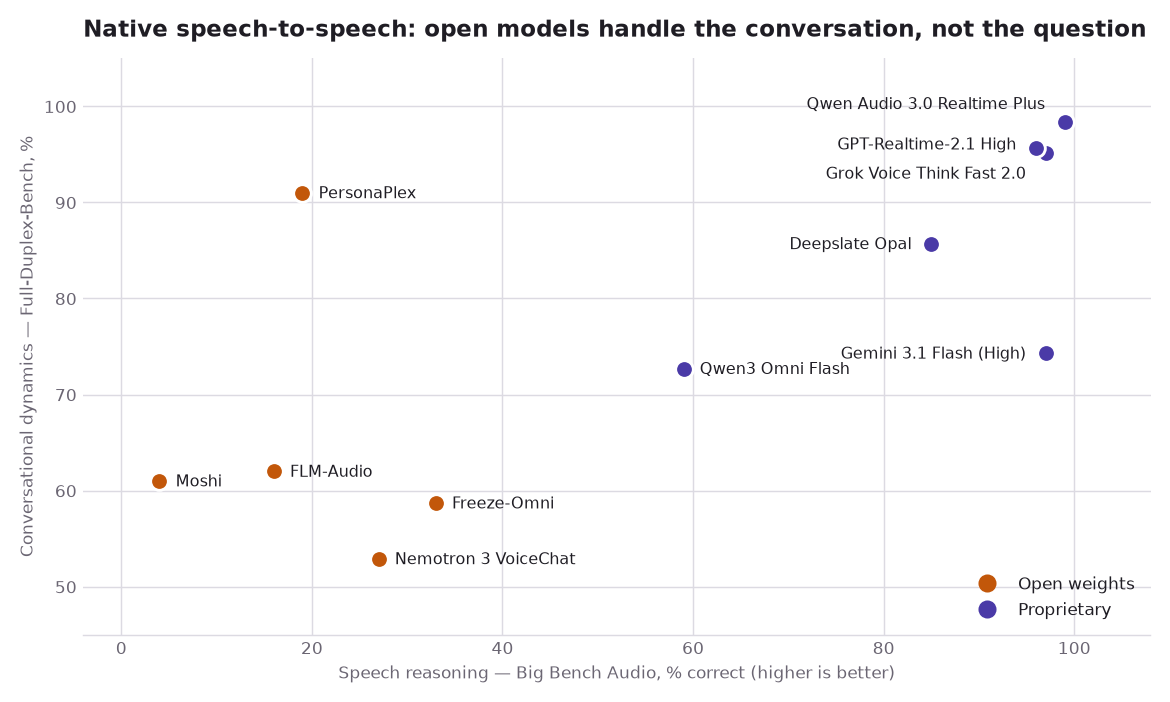
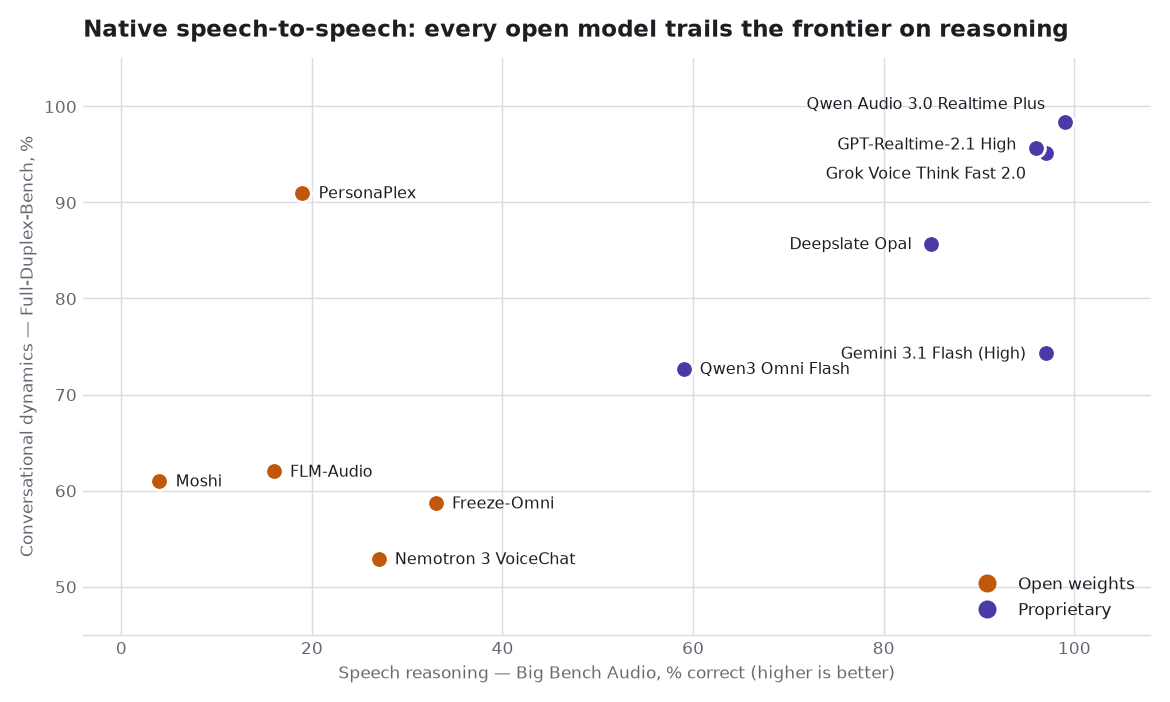
fix(posts): close the second review's data-vs-prose gaps
Second pass caught the recommendations claiming GPT-Realtime "leads on
task completion" when the table's task-completion column is latency and
it places fourth -- the intended claim was Pass@1 success, and the
benchmark's own footnote points at gpt-realtime-1.5, so it was not
evidence about the 2.1 generation at all.

Also: qualify the 2.4x latency win, which averages Gemini Live 3.1 over
only the 78% of runs where it spoke against a cascade that answered
everything; state that Freeze-Omni out-reasons Nemotron rather than
implying otherwise; rewrite the TTS price note, which described four of
the five rows it covered incorrectly; hedge an Elo rank whose confidence
intervals overlap; source the lone RTFx figure; reconcile Cartesia's two
pricing descriptions; and rename a heading its own section refuted.

Verified against the leaderboard that the average WER really is over
seven test sets, not eight -- reproduced the published average from the
per-dataset columns for three models, so TEDLIUM is not in this column.

Figures: retitle the scatter, which generalised PersonaPlex's timing to
all five open models, and use the previously dead is_cascade field to
emphasise the baseline the chart exists to contrast.

Changed region(s): [[0.3692, 0.0299, 0.9846, 0.0598]]

diff --git a/docs/posts/voice-ai-architectures-2026/index.html b/docs/posts/voice-ai-architectures-2026/index.html
@@ -176,7 +176,7 @@ ul.task-list li input[type="checkbox"] {
   </ul></li>
   <li><a href="#the-cascade-really-is-slower-by-seconds-not-milliseconds" id="toc-the-cascade-really-is-slower-by-seconds-not-milliseconds" class="nav-link" data-scroll-target="#the-cascade-really-is-slower-by-seconds-not-milliseconds">The cascade really is slower — by seconds, not milliseconds</a></li>
   <li><a href="#caveat-almost-none-of-these-numbers-measure-the-same-thing" id="toc-caveat-almost-none-of-these-numbers-measure-the-same-thing" class="nav-link" data-scroll-target="#caveat-almost-none-of-these-numbers-measure-the-same-thing">Caveat: almost none of these numbers measure the same thing</a></li>
-  <li><a href="#recognition-on-hard-audio-is-where-the-cascade-earns-its-keep" id="toc-recognition-on-hard-audio-is-where-the-cascade-earns-its-keep" class="nav-link" data-scroll-target="#recognition-on-hard-audio-is-where-the-cascade-earns-its-keep">Recognition on hard audio is where the cascade earns its keep</a></li>
+  <li><a href="#transcription-has-become-excellent-and-largely-free" id="toc-transcription-has-become-excellent-and-largely-free" class="nav-link" data-scroll-target="#transcription-has-become-excellent-and-largely-free">Transcription has become excellent, and largely free</a></li>
   <li><a href="#synthesis-quality-has-commoditised-and-the-price-spread-proves-it" id="toc-synthesis-quality-has-commoditised-and-the-price-spread-proves-it" class="nav-link" data-scroll-target="#synthesis-quality-has-commoditised-and-the-price-spread-proves-it">Synthesis quality has commoditised, and the price spread proves it</a></li>
   <li><a href="#the-reasoning-gap-is-the-real-dividing-line-and-it-is-enormous" id="toc-the-reasoning-gap-is-the-real-dividing-line-and-it-is-enormous" class="nav-link" data-scroll-target="#the-reasoning-gap-is-the-real-dividing-line-and-it-is-enormous">The reasoning gap is the real dividing line, and it is enormous</a>
   <ul class="collapse">
@@ -272,7 +272,7 @@ flowchart LR
 <ul>
 <li><strong>TTFA</strong> (time to first audio) — seconds from the user finishing to the first sound from the agent. Note that “first sound” is often a filler (“let me check that”), which is why it can diverge wildly from when useful information arrives.</li>
 <li><strong>Task completion latency</strong> — seconds until the agent says the thing you were waiting for. Much more honest, much less often quoted.</li>
-<li><strong>RTFx</strong> (inverse real-time factor) — how many seconds of audio a model processes per second of compute, so above 1 is faster than real time and higher is better. Its reciprocal, <strong>RTF</strong>, runs the other way: below 1 is faster than real time. Only RTFx appears below.</li>
+<li><strong>RTFx</strong> (inverse real-time factor) — how many seconds of audio a model processes per second of compute, so above 1 is faster than real time and higher is better. Its reciprocal, <strong>RTF</strong>, runs the other way: below 1 is faster than real time. Only RTFx is quoted in this post.</li>
 <li><strong>WER</strong> (word error rate) — the fraction of words a transcriber gets wrong, as insertions, deletions and substitutions, over the reference transcript. Lower is better; it is a percentage but not a percentage <em>correct</em>.</li>
 <li><strong>Task adherence / turn-taking</strong> — does the agent take its turn when it should, stay quiet during your pauses, and stop when you interrupt?</li>
 <li><strong>Elo / win-rate</strong> — for TTS, listeners hear two clips of the same sentence and pick the better one; ratings are fit to those pairwise votes. It measures <em>preference</em>, not accuracy, and it moves week to week.</li>
@@ -280,7 +280,7 @@ flowchart LR
 <section id="where-the-evaluation-data-comes-from" class="level3">
 <h3 class="anchored" data-anchor-id="where-the-evaluation-data-comes-from">Where the evaluation data comes from</h3>
 <p>Four sources do the work in this post, and each was built by someone with a motive worth knowing.</p>
-<p>The <strong>Open ASR Leaderboard</strong> is a Hugging Face project with contributors from academia and industry, built because ASR vendors had been quoting WER on incomparable internal splits for years. It runs every system through one harness on the same public corpora — meeting recordings (AMI), earnings calls (Earnings22), read audiobooks (LibriSpeech, which contributes two test sets, <em>clean</em> and <em>other</em>), financial presentations (SPGISpeech), European parliament speech (VoxPopuli), and podcasts/YouTube (GigaSpeech) — seven test sets across six corpora, macro-averaged after text normalisation. Speed is measured on standardised hardware, one H200.<a href="#fn4" class="footnote-ref" id="fnref4" role="doc-noteref"><sup>4</sup></a> The corpora matter: AMI and Earnings22 are noisy, multi-speaker, accented real-world audio, and they are where the averages are won and lost. LibriSpeech is clean read speech and nearly saturated.</p>
+<p>The <strong>Open ASR Leaderboard</strong> is a Hugging Face project with contributors from academia and industry, built because ASR vendors had been quoting WER on incomparable internal splits for years. It runs every system through one harness on the same public corpora — meeting recordings (AMI), earnings calls (Earnings22), read audiobooks (LibriSpeech, which contributes two test sets, <em>clean</em> and <em>other</em>), financial presentations (SPGISpeech), European parliament speech (VoxPopuli), and podcasts/YouTube (GigaSpeech). The <code>Average WER</code> figures below are the macro-average over exactly those seven test sets, after text normalisation — I verified that by reproducing the published average from the per-dataset columns for three models. Speed is measured on standardised hardware, one H200.<a href="#fn4" class="footnote-ref" id="fnref4" role="doc-noteref"><sup>4</sup></a> The corpora matter: AMI and Earnings22 are noisy, multi-speaker, accented real-world audio, and they are where the averages are won and lost. LibriSpeech is clean read speech and nearly saturated.</p>
 <p><strong>Full-Duplex-Bench</strong> is an academic benchmark from National Taiwan University for turn-taking behaviour — pauses, backchannels, interruptions — built because no existing evaluation captured what full-duplex models were actually claiming to be good at. Its third version, with NVIDIA co-authors, is the one used below: 100 recordings from 12 speakers, native and non-native, captured on ordinary built-in microphones in rooms with real background noise, annotated for five categories of disfluency, and paired with multi-step tool-calling scenarios.<a href="#fn5" class="footnote-ref" id="fnref5" role="doc-noteref"><sup>5</sup></a></p>
 <p><strong>Artificial Analysis</strong> is a commercial benchmarking outfit that runs its own evaluations across model providers. For speech it publishes a Speech-to-Speech Index combining three equally-weighted parts: Big Bench Audio (1,000 reasoning questions from Big Bench Hard, rendered to audio), a subset of Full-Duplex-Bench, and 𝜏-Voice (customer-service task completion against mock tools and a policy document).<a href="#fn6" class="footnote-ref" id="fnref6" role="doc-noteref"><sup>6</sup></a> It also runs a <strong>Speech Arena</strong> for TTS, where listeners vote blind on pairs.</p>
 <p>The objective in every case is the same one a buyer has: given a stack, how often will the thing mishear, misjudge the turn, or fail the task. The downstream stakes are not abstract — these systems are being pointed at pharmacy refill lines, insurance claims and emergency call triage, where a substituted medication name or a misrouted transfer is a real harm, and where a plausible-sounding wrong answer is worse than a refusal.</p>
@@ -339,7 +339,7 @@ flowchart LR
 </tbody>
 </table>
 <p>The cascade is last on both, and its task-completion time is about 2.4× the fastest native model. The paper attributes this to the sequential chain: each stage must finish before the next begins, whereas native models process concurrently.</p>
-<p>Two things stop this from being the clean win it looks like. First, Ultravox — the one open-weights system here — has the <em>fastest first word</em> and nearly the <em>slowest</em> completion, because it emits a filler sentence in 88% of scenarios before it has called any tool. Speaking early is not the same as being fast. Second, and more importantly, these numbers are seconds because they include multi-step tool execution over real disfluent speech. They are not comparable to the 200 ms Moshi quotes, which measures something else entirely.</p>
+<p>Three things stop this from being the clean win it looks like. First, that 2.4× flatters the winner: Gemini Live 3.1’s mean is taken over the runs in which it actually spoke, and it said nothing at all in 22% of scenarios, while the cascade answered every single one. A latency average conditioned on responding is not measuring the same population as one that never fails to respond. Second, Ultravox — the one open-weights system here — has the <em>fastest first word</em> and nearly the <em>slowest</em> completion, because it emits a filler sentence in 88% of scenarios before it has called any tool. Speaking early is not the same as being fast. Third, and most importantly, these numbers are seconds because they include multi-step tool execution over real disfluent speech. They are not comparable to the 200 ms Moshi quotes, which measures something else entirely.</p>
 </section>
 <section id="caveat-almost-none-of-these-numbers-measure-the-same-thing" class="level2">
 <h2 class="anchored" data-anchor-id="caveat-almost-none-of-these-numbers-measure-the-same-thing">Caveat: almost none of these numbers measure the same thing</h2>
@@ -348,9 +348,9 @@ flowchart LR
 <p>There is a further wrinkle worth flagging: PersonaPlex’s own model card and its paper report different Full-Duplex-Bench figures for the same model,<a href="#fn7" class="footnote-ref" id="fnref7" role="doc-noteref"><sup>7</sup></a> which is a small reminder that even primary sources disagree with themselves. Where I could not resolve a discrepancy I have said so rather than picking the flattering number.</p>
 <p>So: compare within a benchmark, never across. Every chart in this post is internally consistent and none of them should be laid over another.</p>
 </section>
-<section id="recognition-on-hard-audio-is-where-the-cascade-earns-its-keep" class="level2">
-<h2 class="anchored" data-anchor-id="recognition-on-hard-audio-is-where-the-cascade-earns-its-keep">Recognition on hard audio is where the cascade earns its keep</h2>
-<p>If the cascade is slower, what is it buying? Partly the transcript — and partly the fact that the transcription step is very, very good, and that the best transcribers are free.</p>
+<section id="transcription-has-become-excellent-and-largely-free" class="level2">
+<h2 class="anchored" data-anchor-id="transcription-has-become-excellent-and-largely-free">Transcription has become excellent, and largely free</h2>
+<p>If the cascade is slower, what is it buying? Partly the transcript — and partly the fact that the transcription step is very, very good, and that several of the best transcribers cost nothing to license.</p>
 <p>The Open ASR Leaderboard runs open-weights models and commercial APIs through the same harness on the same corpora, which makes this one of the few genuinely like-for-like open-versus-closed comparisons available.</p>
 <div class="quarto-figure quarto-figure-center">
 <figure class="figure">
@@ -531,20 +531,21 @@ flowchart LR
 <td style="text-align: right;">1,014</td>
 <td style="text-align: left;">±12</td>
 <td style="text-align: left;">Open</td>
-<td style="text-align: right;">$25.00 †</td>
+<td style="text-align: right;">$25.00</td>
 </tr>
 <tr class="odd">
 <td style="text-align: left;">Coqui XTTS v2</td>
 <td style="text-align: right;">914</td>
 <td style="text-align: left;">±15</td>
 <td style="text-align: left;">Open</td>
-<td style="text-align: right;">$40.40 ‡</td>
+<td style="text-align: right;">$40.40 † ‡</td>
 </tr>
 </tbody>
 </table>
-<p>† For open-weights models the price is a third-party hosted endpoint, not a rate set by the model’s authors — Kokoro’s $0.65 is Replicate’s. Self-hosting changes that number completely, in both directions: no per-character fee, but you own the GPU. The proprietary rows are the vendor’s own list price, so the two kinds of number are not strictly comparable.</p>
-<p>‡ Coqui, the company behind XTTS, shut down in early 2024. The weights and the community fork remain available; there is no vendor behind them.</p>
-<p>Three things stand out. The leader is Alibaba, not any of the Western TTS specialists. ElevenLabs — the brand most people name first — sits fifth here, and its Eleven v3 costs 3.8× the model directly above it on quality and 5.5× Gemini 3.1 Flash TTS. And Kokoro, 82M parameters, is served at $0.65 per million characters: a 150× price difference from Eleven v3 for 115 Elo points, which is a preference of roughly 66/34 in blind tests. Two thirds of listeners prefer the model that costs 150× more — which is a real quality gap, and also a strange thing to pay 150× for.</p>
+<p>Open weights and a hosted price are not mutually exclusive, and the two kinds of number in this column are worth telling apart. Fish Audio, Mistral and Resemble all publish weights <em>and</em> sell their own API, so those rates are the authors’. NVIDIA and StepFun publish weights with no first-party endpoint, hence the blank.</p>
+<p>† These are third-party hosting rates, not a price the model’s authors set — Kokoro’s $0.65 is Replicate’s. Self-hosting removes the per-character fee entirely and replaces it with a GPU bill, so treat these as one way to rent the model rather than what it costs.</p>
+<p>‡ Coqui, the company behind XTTS, shut down in early 2024. The weights and a community fork remain; there is no vendor behind them.</p>
+<p>Three things stand out. The leader is Alibaba, not any of the Western TTS specialists. ElevenLabs — the brand most people name first — sits fifth here, and its Eleven v3 costs 3.8× the model directly above it on quality and 5.5× Gemini 3.1 Flash TTS — though with Inworld’s interval at [1181, 1207] and Eleven v3’s at [1159, 1183], that particular ordering is not one the votes have actually settled. And Kokoro, 82M parameters, can be rented for $0.65 per million characters against Eleven v3’s $100: a 150× spread for 115 Elo, which means Eleven v3 wins about 66% of head-to-head comparisons against it. A real quality gap, and a strange thing to pay 150× for — with the caveat that this compares a third-party hosting rate to a vendor list price, and that a self-hosted Kokoro has no per-character price at all.</p>
 <p>The best open-weights model trails the best proprietary one by 108 Elo — real, but far from decisive, and well inside the range where voice selection and prompt tuning matter more than model choice. If you are differentiating your product on how pretty the voice is, that moat is mostly gone.</p>
 <p>That is the cascade, then: slower by seconds, excellent at hearing, and now buying its voice in a commodity market. Which leaves the question of what native models are actually better <em>at</em>, and where they are still visibly not ready.</p>
 </section>
@@ -648,7 +649,7 @@ flowchart LR
 <section id="the-cascades-transcript-is-also-what-makes-it-fail" class="level2">
 <h2 class="anchored" data-anchor-id="the-cascades-transcript-is-also-what-makes-it-fail">The cascade’s transcript is also what makes it fail</h2>
 <p>This is the finding that changed my framing of the whole post, and it comes from Full-Duplex-Bench-v3.</p>
-<p>The cascaded baseline shares its language model with GPT-Realtime — both are GPT-4o class. Yet the cascade completes 45.0% of tasks against GPT-Realtime’s 60.0%. The gap is widest in exactly one category: <strong>self-corrections</strong>, where the user changes their mind mid-sentence. There the cascade scores 0.176 and GPT-Realtime scores 0.588 — the lowest of all six systems against the highest.</p>
+<p>The cascaded baseline shares its language model with GPT-Realtime — both are GPT-4o class. Yet the cascade completes 45.0% of tasks against GPT-Realtime’s 60.0%. The gap is widest in exactly one category: <strong>self-corrections</strong>, where the user changes their mind mid-sentence. There the cascade succeeds 17.6% of the time against GPT-Realtime’s 58.8% — the lowest of all six systems against the highest.</p>
 <p>The paper’s explanation is precise: Whisper finalises the original transcription before the correction arrives, so the downstream model never sees that the user changed their mind. The transcript was committed too early, and there is no mechanism for rollback.</p>
 <p>So the transcript is not simply a control surface you buy with latency. It is a <em>lossy, early, irreversible commitment</em>, and the same property that lets you log it, redact it and gate it is the property that destroys the information needed to handle a correction. The cascade’s great strength and its worst failure mode are the same design decision viewed from two sides.</p>
 <p>The cascade does get one thing uniquely right: a 100% turn-take rate, the only system to manage it, because a sequential pipeline structurally guarantees a response to every input. Gemini Live 3.1, by contrast, silently produced nothing in 22% of scenarios — and in 86% of those silences it had correctly executed the tool calls and simply never spoke. Reliability and speed are trading against each other, not aligned.</p>
@@ -777,7 +778,7 @@ flowchart LR
 <td style="text-align: left;">Closed API</td>
 <td style="text-align: left;">TTS, STT, agents</td>
 <td style="text-align: left;">Sonic 3.5, Ink-2, Line</td>
-<td style="text-align: left;">Plan-based; agents $0.06/min</td>
+<td style="text-align: left;">Plan-based (≈$49/1M chars normalised); agents $0.06/min</td>
 <td style="text-align: left;">Very low-latency TTS</td>
 </tr>
 <tr class="even">
@@ -846,14 +847,14 @@ flowchart LR
 </tr>
 </tbody>
 </table>
-<p>This covers the vendors with a shipping product in the stack, not every lab whose model appears in a chart above: StepFun, Boson AI, Cohere, IBM, Zyphra and Deepslate all show up in the benchmarks without a row here, and Deepslate in particular I could find little about beyond its leaderboard entries — treat that one as unverified.</p>
-<p>Prices are list rates from each vendor’s public pricing page, read on 9 August 2026, and they change often. Company activity is real: Deepgram raised a $130M Series C at a $1.3B valuation, LiveKit a $100M Series C at $1B in January 2026, Fish Audio $52M in July, and Rime $24M in July.<a href="#fn9" class="footnote-ref" id="fnref9" role="doc-noteref"><sup>9</sup></a> I found no evidence of consolidation or shutdown among the vendors in this table. The one casualty in the wider post is Coqui, whose XTTS v2 still appears on the TTS leaderboard years after the company behind it closed.</p>
+<p>This covers the vendors with a shipping product in the stack, not every lab whose model appears in a chart above. Cohere, IBM, Speechmatics and Kyutai’s STT show up in the word-error table; StepFun, Smallest.ai and Coqui in the TTS table; VITA (Freeze-Omni), Cofe AI (FLM-Audio) and Deepslate in the speech-to-speech chart — none has a row here. Deepslate in particular I could find little about beyond its leaderboard entries; treat that one as unverified.</p>
+<p>Prices are list rates from each vendor’s public pricing page, read on 9 August 2026, and they change often. Cartesia is the exception: it sells bundled plans rather than a per-character rate, so the figure in the TTS table above is Artificial Analysis’s normalisation of those plans, not a number Cartesia publishes. Company activity is real: Deepgram raised a $130M Series C at a $1.3B valuation, LiveKit a $100M Series C at $1B in January 2026, Fish Audio $52M in July, and Rime $24M in July.<a href="#fn9" class="footnote-ref" id="fnref9" role="doc-noteref"><sup>9</sup></a> I found no evidence of consolidation or shutdown among the vendors in this table. The one casualty in the wider post is Coqui, whose XTTS v2 still appears on the TTS leaderboard years after the company behind it closed.</p>
 </section>
 <section id="what-i-would-pick-today" class="level2">
 <h2 class="anchored" data-anchor-id="what-i-would-pick-today">What I would pick today</h2>
 <p><strong>If you are building a cascade</strong>, the components are close enough that licensing and latency should drive the choice more than quality:</p>
 <ul>
-<li><em>STT, open:</em> <strong>NVIDIA Parakeet TDT 0.6B v2</strong> — 5.39 WER at an RTFx over 6,000, by far the best accuracy-per-unit-compute here, and CC-BY-4.0. Choose <strong>IBM Granite Speech 4.1 2B</strong> (4.90) if you want the accuracy and can pay the compute.</li>
+<li><em>STT, open:</em> <strong>NVIDIA Parakeet TDT 0.6B v2</strong> — 5.39 WER at an RTFx of 6,038,<a href="#fn10" class="footnote-ref" id="fnref10" role="doc-noteref"><sup>10</sup></a> by far the best accuracy-per-unit-compute here, and CC-BY-4.0. Choose <strong>IBM Granite Speech 4.1 2B</strong> (4.90) if you want the accuracy and can pay roughly 11× the compute per second of audio.</li>
 <li><em>STT, paid:</em> <strong>Deepgram</strong> for telephony, on price and streaming maturity rather than raw WER; <strong>Azure Speech</strong> if you want the lowest error rate on the board and are already in that ecosystem.</li>
 <li><em>LLM:</em> whatever you already trust for tool calling. This is the one stage where voice imposes no special requirement beyond time-to-first-token.</li>
 <li><em>TTS, open:</em> <strong>Fish Audio S2 Pro</strong> for quality, <strong>Kokoro 82M</strong> if you need it to run anywhere — it is within 65 Elo of S2 Pro at a fraction of the footprint.</li>
@@ -861,8 +862,8 @@ flowchart LR
 </ul>
 <p><strong>If you are going native:</strong></p>
 <ul>
-<li><em>Closed:</em> <strong>GPT-Realtime-2.1</strong> if tool use matters — it leads Full-Duplex-Bench-v3 on task completion and self-correction handling. <strong>Qwen Audio 3.0 Realtime Plus</strong> tops both Artificial Analysis axes at a fraction of the cost, with the caveat that this is a benchmark lead I have seen independently confirmed only by Artificial Analysis, and that data residency will decide it for many buyers. <strong>Gemini 3.1 Flash Live</strong> is the value option if you can tolerate its silence failures.</li>
-<li><em>Open:</em> <strong>Nemotron 3 VoiceChat 11B</strong>. It is the only open full-duplex model with live tool calling, and its text-LLM-in-the-middle design is why it reasons better than the pure speech-token models. Reach for <strong>PersonaPlex</strong> instead only if conversational feel is the product and reasoning genuinely is not.</li>
+<li><em>Closed:</em> <strong>GPT-Realtime</strong> if tool use matters — it leads Full-Duplex-Bench-v3 on task <em>success</em> (Pass@1 0.600) and on self-correction handling, though not on latency, where it is fourth of six. Note that the benchmark’s own footnote points at <code>gpt-realtime-1.5</code>, so that result is not evidence about the 2.1 generation; the 2.1 numbers in this post come from Artificial Analysis instead. <strong>Qwen Audio 3.0 Realtime Plus</strong> tops both Artificial Analysis axes at a fraction of the cost, with the caveat that this is a benchmark lead I have seen independently confirmed only by Artificial Analysis, and that data residency will decide it for many buyers. <strong>Gemini 3.1 Flash Live</strong> is the value option if you can tolerate its silence failures.</li>
+<li><em>Open:</em> <strong>Nemotron 3 VoiceChat 11B</strong>. It is the only open full-duplex model with live tool calling, and its text-LLM-in-the-middle design is why it reasons better than every pure speech-token model on the board — 27 against PersonaPlex’s 19, FLM-Audio’s 16 and Moshi’s 4. It is not the top open reasoner outright: Freeze-Omni scores 33, from the same architectural family, but without the tool calling. Reach for <strong>PersonaPlex</strong> instead only if conversational feel is the product and reasoning genuinely is not.</li>
 </ul>
 <p><strong>Where open native still loses</strong>: reasoning, by a factor that no amount of prompt work closes; agentic tool use, where it is barely evaluated; and production maturity. <strong>Where it has caught up</strong>: raw conversational timing, where PersonaPlex is genuinely competitive with the frontier, and TTS quality, where the gap is now smaller than the gap between two voices from the same vendor.</p>
 <p>And the honest answer for most teams is neither purebred choice. If your calls are short and scripted, native wins on feel. If they are long, regulated, or tool-heavy, the cascade’s inspectability and its guaranteed response are worth the seconds.</p>
@@ -933,6 +934,7 @@ flowchart LR
 <li id="fn7"><p>The model card lists smooth turn-taking success 0.908 and interruption success 0.950; the paper’s Table 2 lists 0.992 and 1.000. I could not determine from the published material which configuration each corresponds to.<a href="#fnref7" class="footnote-back" role="doc-backlink">↩</a></p></li>
 <li id="fn8"><p><a href="https://huggingface.co/datasets/ArtificialAnalysis/big_bench_audio">ArtificialAnalysis/big_bench_audio</a> dataset card.<a href="#fnref8" class="footnote-back" role="doc-backlink">↩</a></p></li>
 <li id="fn9"><p>Deepgram <a href="https://deepgram.com/learn/press-release-deepgram-raises-series-c">press release</a>; LiveKit round reported by Bloomberg, 22 January 2026; Fish Audio via PR Newswire / SiliconANGLE, 28 July 2026; Rime via TechCrunch, 15 July 2026.<a href="#fnref9" class="footnote-back" role="doc-backlink">↩</a></p></li>
+<li id="fn10"><p>Same Open ASR Leaderboard results dataset as the word-error table, read 9 August 2026. RTFx there is measured on one H200; IBM Granite Speech 4.1 2B records 547 on the same hardware.<a href="#fnref10" class="footnote-back" role="doc-backlink">↩</a></p></li>
 </ol>
 </section></div></main> <!-- /main -->
 <script id="quarto-html-after-body" type="application/javascript">

diff --git a/docs/index.html b/docs/index.html
@@ -225,7 +225,7 @@ Reading Time
 </tr>
 </thead>
 <tbody class="list">
-<tr data-index="0" data-categories="QUklMkNWb2ljZSUyQ1NwZWVjaA==" data-listing-date-sort="1786251600000" data-listing-file-modified-sort="1786313115910" data-listing-date-modified-sort="NaN" data-listing-reading-time-sort="29" data-listing-word-count-sort="5609" data-listing-title-sort="Cascade or Native? What the Voice AI Stack Actually Looks Like in 2026" data-listing-filename-sort="index.qmd">
+<tr data-index="0" data-categories="QUklMkNWb2ljZSUyQ1NwZWVjaA==" data-listing-date-sort="1786251600000" data-listing-file-modified-sort="1786313765235" data-listing-date-modified-sort="NaN" data-listing-reading-time-sort="30" data-listing-word-count-sort="5931" data-listing-title-sort="Cascade or Native? What the Voice AI Stack Actually Looks Like in 2026" data-listing-filename-sort="index.qmd">
 <td>
 <span class="listing-image"><img loading="lazy" src="./posts/voice-ai-architectures-2026/cover.png" style="height: 40px;"></span>
 </td>
@@ -236,7 +236,7 @@ Reading Time
 <a href="./posts/voice-ai-architectures-2026/index.html" class="title listing-title">Cascade or Native? What the Voice AI Stack Actually Looks Like in 2026</a>
 </td>
 <td>
-<span class="listing-reading-time">29 min</span>
+<span class="listing-reading-time">30 min</span>
 </td>
 </tr>
 <tr data-index="1" data-categories="QUklMkNMTE0lMkNQcmljaW5n" data-listing-date-sort="1786165200000" data-listing-file-modified-sort="1786268080010" data-listing-date-modified-sort="NaN" data-listing-reading-time-sort="15" data-listing-word-count-sort="2968" data-listing-title-sort="LLM API Pricing Compared: Claude, GPT, Gemini, and the Chinese Challengers (August 2026)" data-listing-filename-sort="index.qmd">

diff --git a/posts/voice-ai-architectures-2026/src/make_figs.py b/posts/voice-ai-architectures-2026/src/make_figs.py
@@ -187,6 +187,12 @@ def fig_latency() -> None:
 
     ax.set_yticks(list(y))
     ax.set_yticklabels(labels, fontsize=9.5, color=INK)
+    # The cascaded baseline is the reference point the chart exists to make, so its
+    # tick label is emphasised rather than given a third colour -- the two purples
+    # already encode which stage of the response a bar measures.
+    for tick, row in zip(ax.get_yticklabels(), rows):
+        if row[3]:
+            tick.set_fontweight("bold")
     ax.invert_yaxis()
     ax.set_xlim(0, 12.4)
     ax.set_xlabel("seconds (lower is better)", fontsize=9.5, color=MUTED)
@@ -352,8 +358,10 @@ def fig_s2s() -> None:
         fontsize=9.5,
         color=MUTED,
     )
+    # Deliberately not "open models handle the conversation, not the question": only
+    # PersonaPlex is strong on dynamics, and a chart title gets screenshotted alone.
     ax.set_title(
-        "Native speech-to-speech: open models handle the conversation, not the question",
+        "Native speech-to-speech: every open model trails the frontier on reasoning",
         fontsize=12.5,
         color=INK,
         fontweight="bold",
